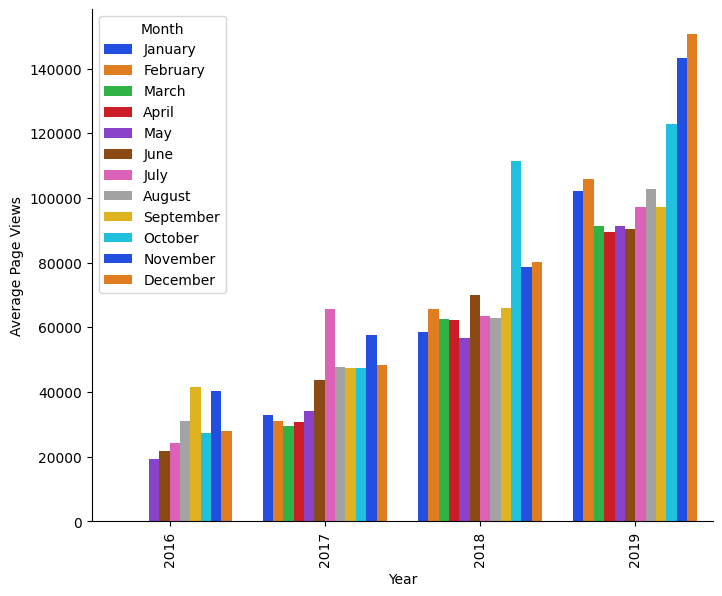
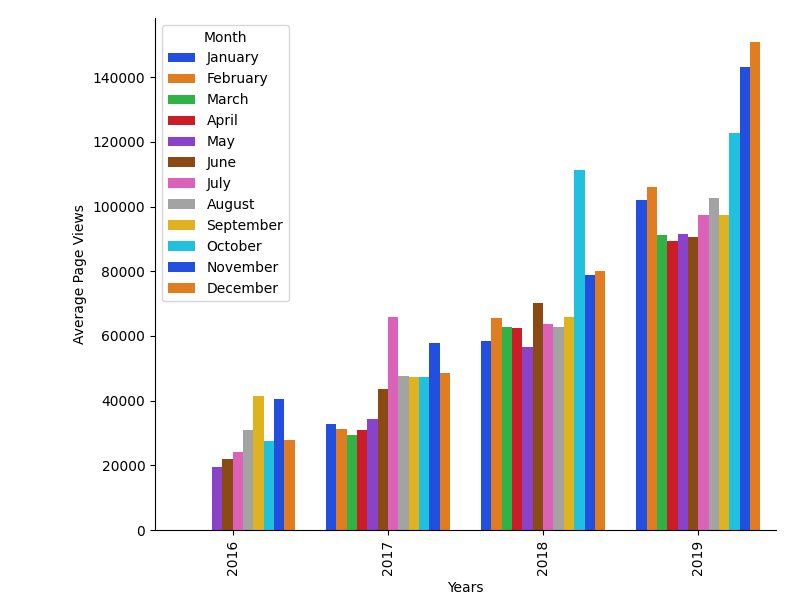
Completed tasks

diff --git a/time_series_visualizer.py b/time_series_visualizer.py
@@ -1,20 +1,19 @@
-import matplotlib.pyplot as plt
+git remote set-url origin https://github.com/import matplotlib.pyplot as plt
 import pandas as pd
 import seaborn as sns
+import numpy as np
 from pandas.plotting import register_matplotlib_converters
 register_matplotlib_converters()
 
 # Import data (Make sure to parse dates. Consider setting index column to 'date'.)
 df = pd.read_csv("fcc-forum-pageviews.csv")
-# print(df.head())
-# df.info()
+
 
 df = df.set_index('date')
-# print(df.head())
+
 # Clean data
 df = df.loc[(df['value'] >= df['value'].quantile(0.025)) & (df['value'] <= df['value'].quantile(0.975))]
 
-# print(df.head())
 
 
 df.index = pd.to_datetime(df.index)
@@ -23,9 +22,7 @@ df.info()
 
 
 def draw_line_plot():
-    # print('in_line_plot')
     # Draw line plot
-    # fig = df.plot().figure
     fig, axs = plt.subplots(figsize=(16, 6))
     df.plot(ax=axs, color = 'red', linewidth = 1, legend = False)
     axs.set_xlabel("Date")
@@ -38,40 +35,24 @@ def draw_line_plot():
     return fig
 
 def draw_bar_plot():
-    print('in_bar_plot')
     # Copy and modify data for monthly bar plot
     df_bar = df.copy()#.groupby([df.index.year, df.index.month])#.reset_index()
     df_bar['month'] = df.index.month
     df_bar['year'] = df.index.year
-    # df_bar = df_bar.rename(columns={'date': 'month'}).reset_index()
-    # df_bar = df_bar.rename(columns={'date': 'year'})
     df_bar = df_bar.reset_index()
     df_bar = df_bar.replace({'month': {1: 'January', 2: 'February', 3: 'March', 4: 'April', 5: 'May', 6: 'June', 7: 'July', 8: 'August', 9: 'September', 10: 'October', 11: 'November', 12: 'December'}})
     
-    df_bar.info()
-
-    #print(df_bar['month'].value_counts())
-
-    # df_bar.melt(id_vars = ['year', 'month'], value_vars = 'value')
-
-    print(df_bar.tail())
-
+    
     # # Draw bar plot;
     sns.color_palette("tab10")
-    # f = sns.barplot(data = df_bar, x='year', y='value', hue = 'month', ci = 0)#, kind = 'bar')
-    # # f.set_axis_labels("Year", "Average Page Views")
-    # f.set_ylabel("Average Page Views")
-    # plt.gcf().set_size_inches(8,8)
     f = sns.catplot(data = df_bar, x='year', y='value', hue = 'month', ci = 0, kind = 'bar', palette = 'bright', legend = False, hue_order = ["January", "February", "March", "April", "May", "June", "July", "August", "September", "October", "November", "December"])
-    f.set_axis_labels("Year", "Average Page Views")
-    #f._legend.set(title='Month')#, labels=["January", "February", "March", "April", "May", "June", "July", "August", "September", "October", "November", "December"])
-    #f._legend.set(title='Month')#, labels=["January", "February", "March", "April", "May", "June", "July", "August", "September", 
+    f.set_axis_labels("Years", "Average Page Views")
     plt.legend(loc='upper left', title = 'Month')
     plt.xticks(rotation='vertical')#, ha = 'center')
     plt.gcf().set_size_inches(8,6)
     
     
-    fig = f#.figure
+    fig = f.fig
     # # Save image and return fig (don't change this part)
     fig.savefig('bar_plot.png')
     return fig
@@ -80,15 +61,35 @@ def draw_box_plot():
     # Prepare data for box plots (this part is done!)
     df_box = df.copy()
     df_box.reset_index(inplace=True)
-    # df_box['year'] = [d.year for d in df_box.date]
-    # df_box['month'] = [d.strftime('%b') for d in df_box.date]
+    df_box['year'] = [d.year for d in df_box.date]
+    df_box['month'] = [d.strftime('%b') for d in df_box.date]
+
 
     # Draw box plots (using Seaborn)
+    g, axes = plt.subplots(1, 2, figsize=(35, 10))#, sharey=True)
+    plt.subplots_adjust(wspace=0.1)
+    
+    sns.boxplot(data = df_box, ax=axes[0], x="year", y="value", flierprops={"marker": "d"})
+    axes[0].set_title("Year-wise Box Plot (Trend)", fontsize = 20)
+    axes[0].set_xlabel('Year', fontsize = 15)
+    axes[0].set_ylabel('Page Views', fontsize = 15)
+    axes[0].set_ylim([0, 200000])
+    axes[0].xaxis.set_tick_params(labelsize=15)
+    axes[0].yaxis.set_tick_params(labelsize=15)
+    axes[0].set_yticks(np.arange(0, 220000, 20000))
 
+    sns.boxplot(data = df_box, ax=axes[1], x="month", y="value", flierprops={"marker": "d"}, order = ['Jan', 'Feb', 'Mar', 'Apr', 'May', 'Jun', 'Jul', 'Aug', 'Sep', 'Oct', 'Nov', 'Dec'])
+    axes[1].set_title("Month-wise Box Plot (Seasonality)", fontsize = 20)
+    axes[1].set_xlabel('Month', fontsize = 15)
+    axes[1].set_ylabel('Page Views', fontsize = 15)
+    axes[1].set_ylim([0, 200000])
+    axes[1].xaxis.set_tick_params(labelsize=15)
+    axes[1].yaxis.set_tick_params(labelsize=15)
+    axes[1].set_yticks(np.arange(0, 220000, 20000))
 
-
+    fig2 = g
 
 
     # # Save image and return fig (don't change this part)
-    # fig.savefig('box_plot.png')
-    # return fig
+    fig2.savefig('box_plot.png')
+    return fig2

diff --git a/main.py b/main.py
@@ -5,7 +5,7 @@ from unittest import main
 # Test your function by calling it here
 time_series_visualizer.draw_line_plot()
 time_series_visualizer.draw_bar_plot()
-# time_series_visualizer.draw_box_plot()
+time_series_visualizer.draw_box_plot()
 
 # Run unit tests automatically
-#main(module='test_module', exit=False)
+main(module='test_module', exit=False)
